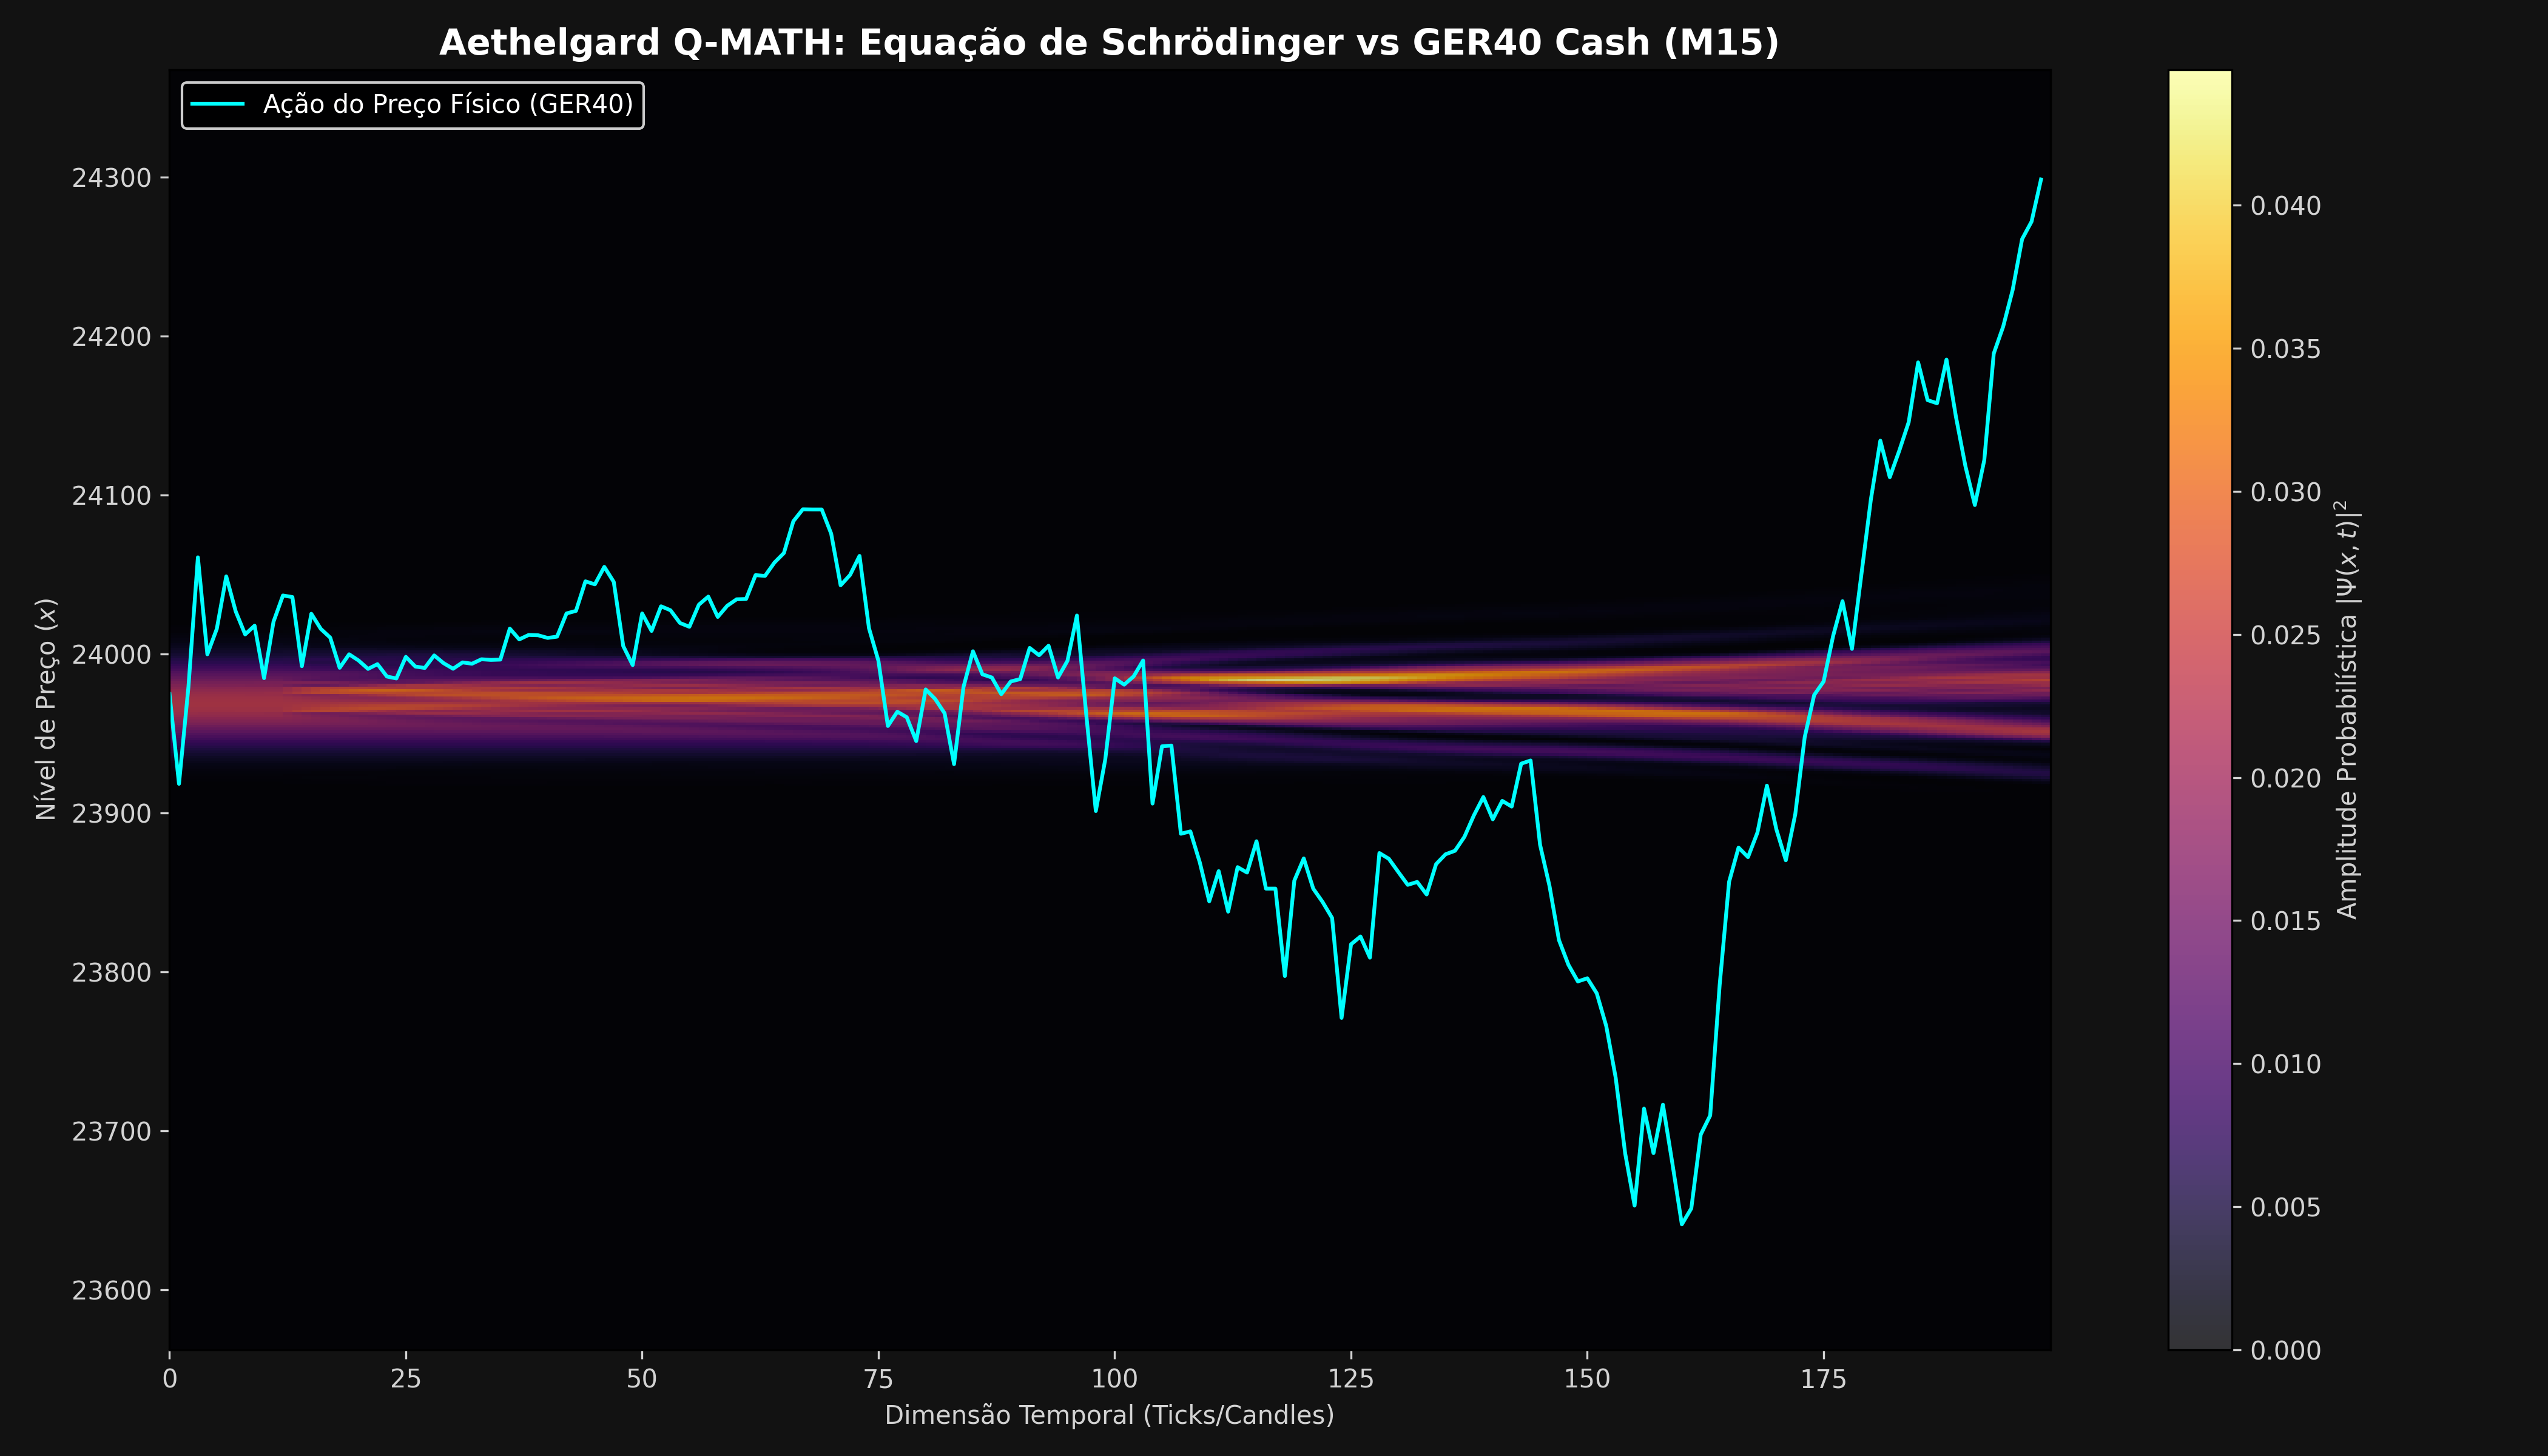
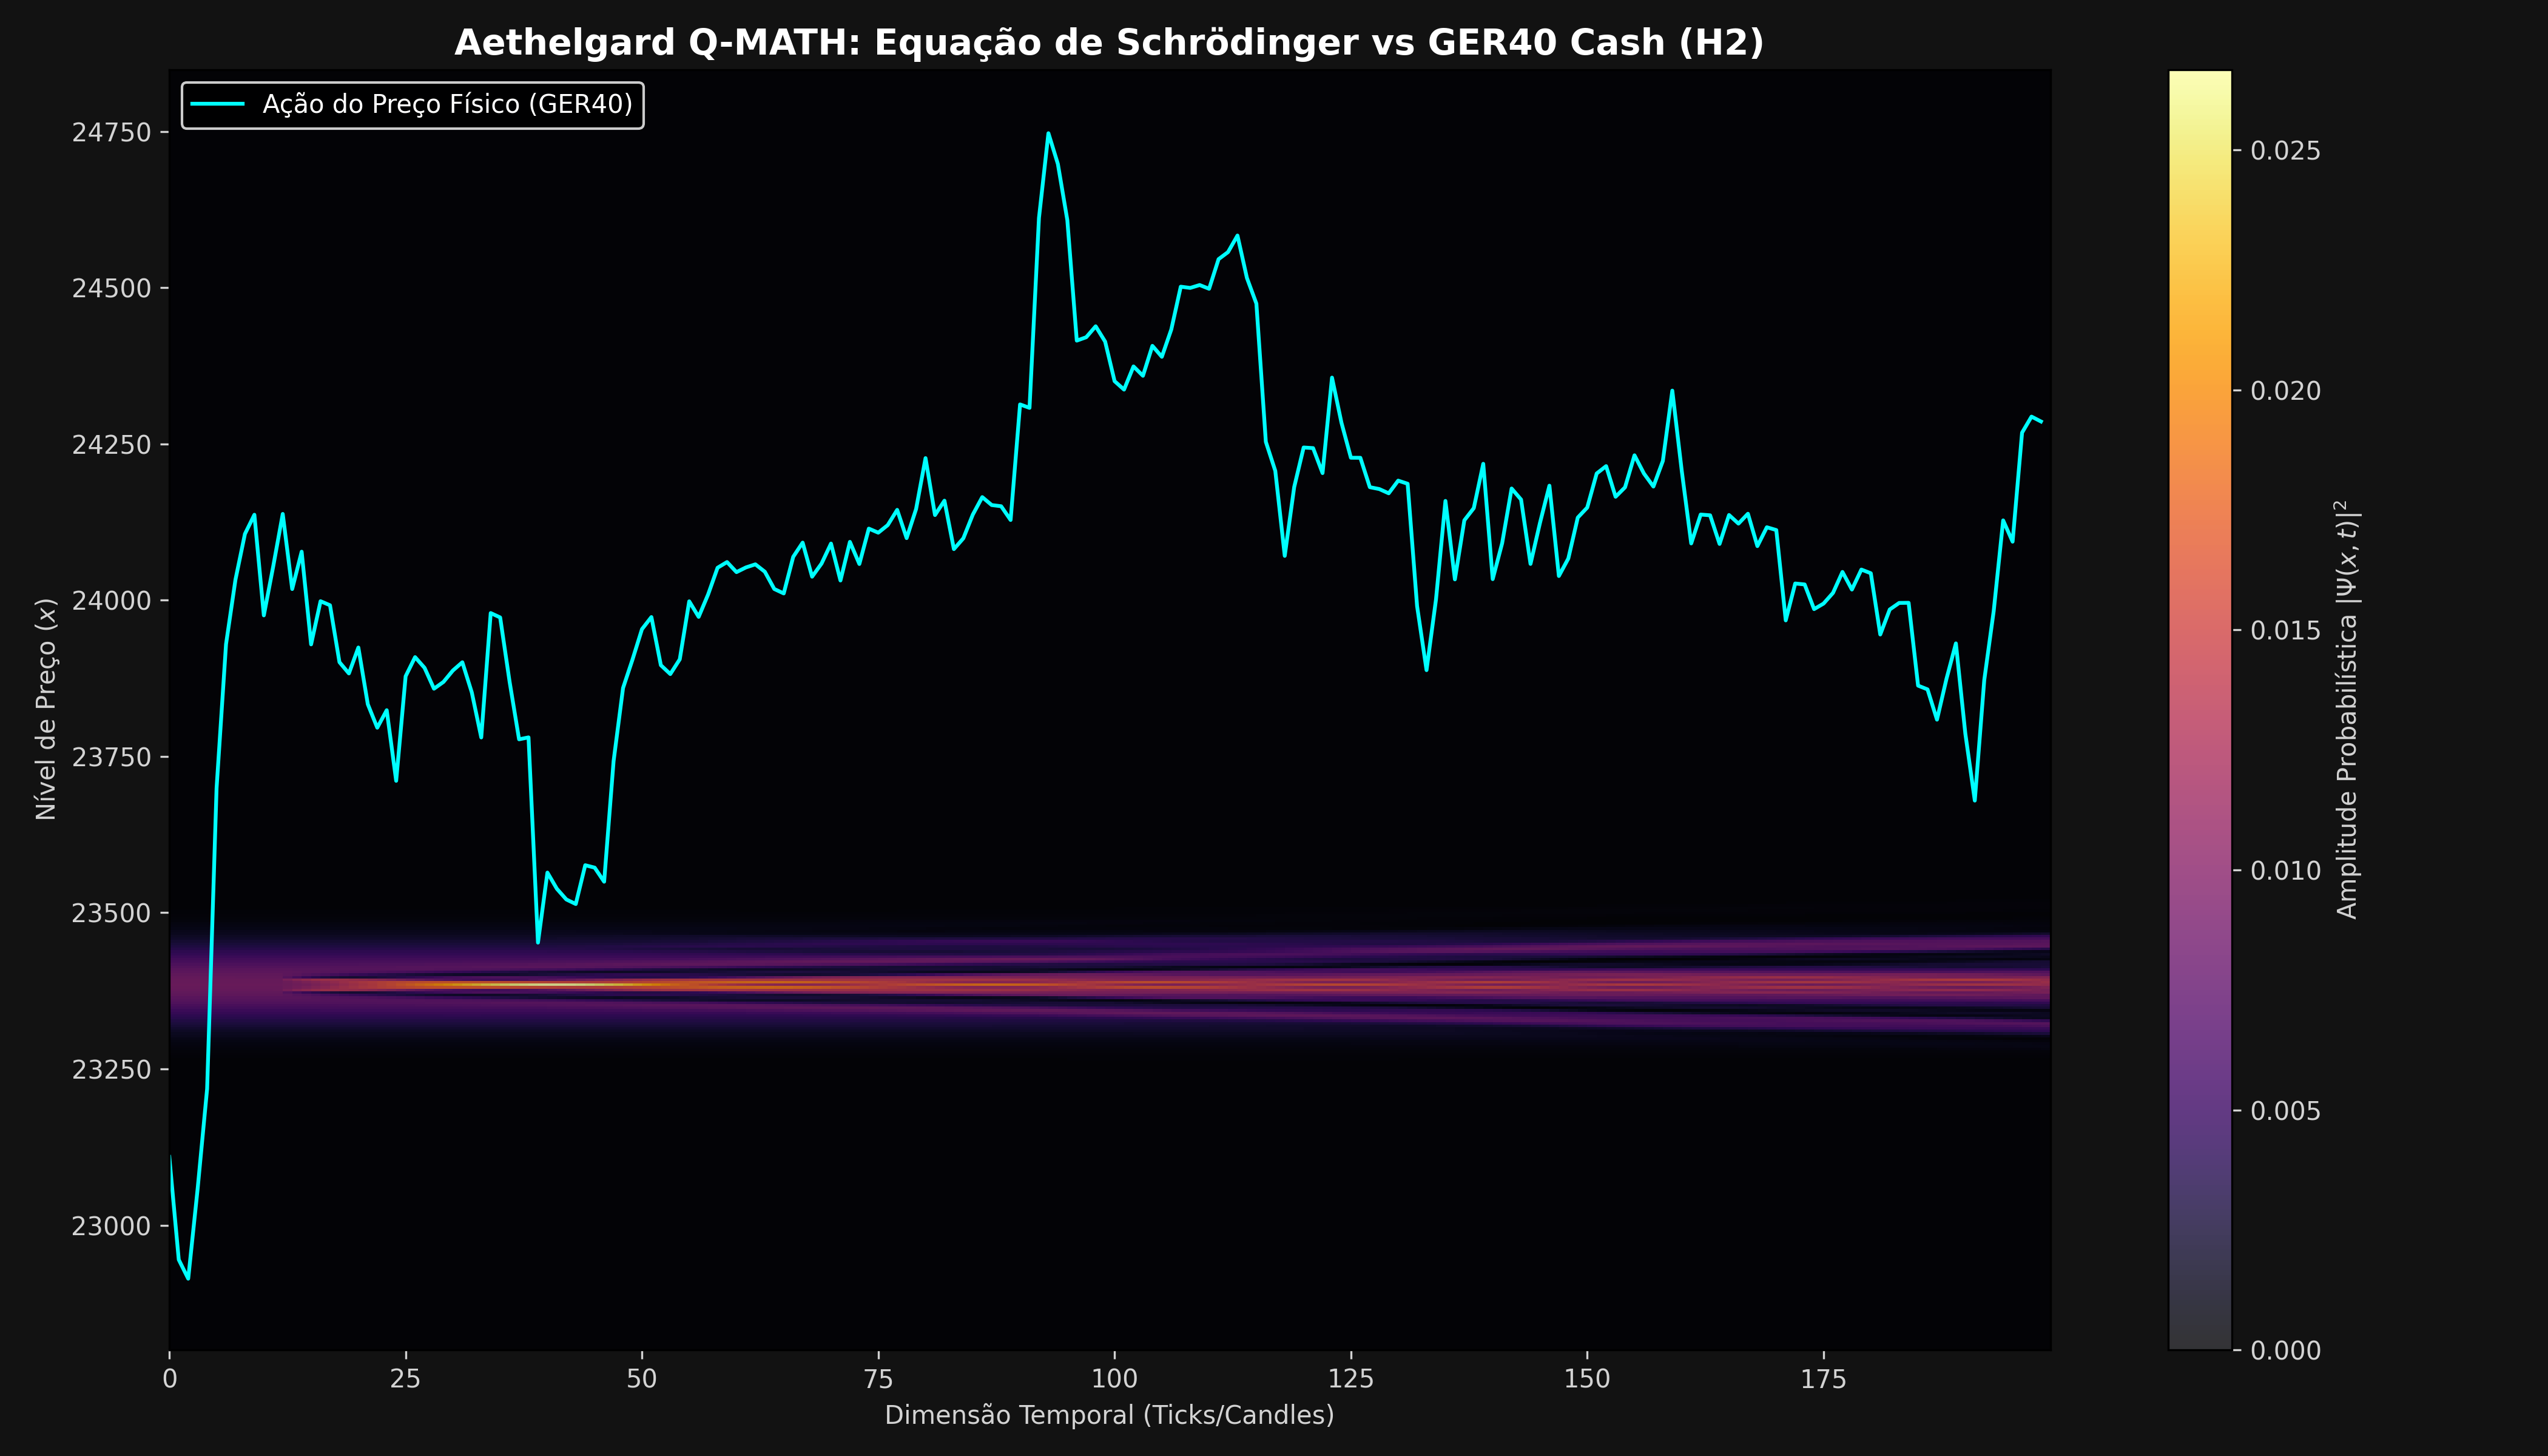
test(q-math): generate Schrodinger Clouds visual on H2 timeframe

diff --git a/Code/N_Core/test_schrodinger_visuals.py b/Code/N_Core/test_schrodinger_visuals.py
@@ -10,19 +10,25 @@ sys.path.append(os.path.abspath(os.path.join(os.path.dirname(__file__), '..')))
 from Code.N_Core.quantum_clouds import QuantumCloudTracker
 
 def test_quantum_clouds():
-    print("Iniciando simulação visual: Nuvens de Probabilidade de Schrödinger")
+    print("Iniciando simulação visual: Nuvens de Probabilidade de Schrödinger - Timeframe H2")
     
-    data_path = os.path.join("Data", "Historical", "GER40.cash_M15.parquet")
+    data_path = os.path.join("Data", "Historical", "GER40.cash_H2.parquet")
     if not os.path.exists(data_path):
-        print(f"Erro: Base de dados {data_path} não encontrada. Usando dados sintéticos para teste visual.")
-        
-        # Gerar dados sintéticos do GER40 se não encontrar o arquivo
-        dates = pd.date_range('2023-01-01', periods=200, freq='15min')
-        prices = 18000 + np.cumsum(np.random.randn(200) * 10)
-        highs = prices + np.random.rand(200) * 5
-        lows = prices - np.random.rand(200) * 5
-        volumes = np.random.randint(100, 1000, 200)
-        df = pd.DataFrame({'time': dates, 'open': prices, 'high': highs, 'low': lows, 'close': prices, 'tick_volume': volumes})
+        print(f"Erro: Base de dados {data_path} não encontrada. Tentando H1 ou sintético.")
+        data_path_h1 = os.path.join("Data", "Historical", "GER40.cash_H1.parquet")
+        if os.path.exists(data_path_h1):
+             print(f"Carregando {data_path_h1} e re-amostrando para H2...")
+             df_h1 = pd.read_parquet(data_path_h1)
+             df = df_h1.iloc[::2].reset_index(drop=True)
+             df = df.tail(200).reset_index(drop=True)
+        else:
+             print("Usando dados sintéticos (H2).")
+             dates = pd.date_range('2023-01-01', periods=200, freq='2h')
+             prices = 18000 + np.cumsum(np.random.randn(200) * 15)
+             highs = prices + np.random.rand(200) * 10
+             lows = prices - np.random.rand(200) * 10
+             volumes = np.random.randint(500, 5000, 200)
+             df = pd.DataFrame({'time': dates, 'open': prices, 'high': highs, 'low': lows, 'close': prices, 'tick_volume': volumes})
     else:
         print(f"Carregando {data_path}...")
         df = pd.read_parquet(data_path)
@@ -74,7 +80,7 @@ def test_quantum_clouds():
     # Plot 2: Ação de Preço (Fechamentos)
     plt.plot(range(len(density_history)), df['close'].iloc[1:].values, color='cyan', linewidth=1.5, label='Ação do Preço Físico (GER40)')
     
-    plt.title('Aethelgard Q-MATH: Equação de Schrödinger vs GER40 Cash (M15)', fontsize=14, fontweight='bold', color='white')
+    plt.title('Aethelgard Q-MATH: Equação de Schrödinger vs GER40 Cash (H2)', fontsize=14, fontweight='bold', color='white')
     plt.xlabel('Dimensão Temporal (Ticks/Candles)', color='lightgrey')
     plt.ylabel('Nível de Preço ($x$)', color='lightgrey')
     